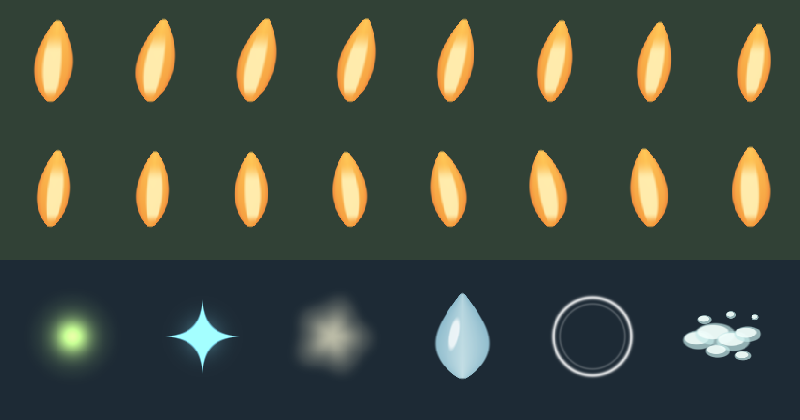
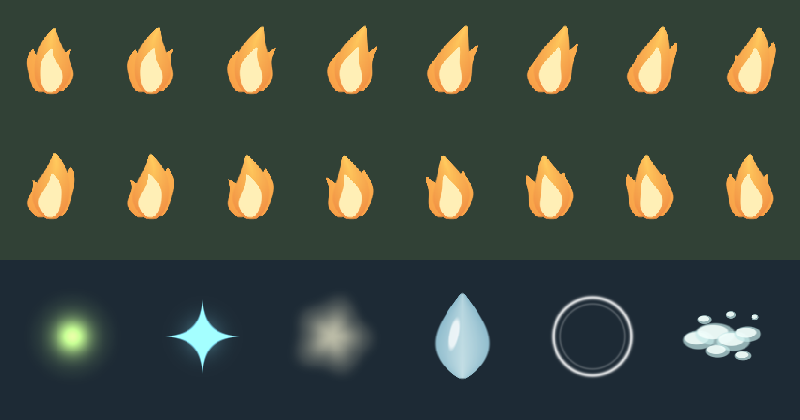
VIS.5: Refine flame silhouettes and document VFX mobile integration

diff --git a/ArtSource/VFX/BrightFantasy_VIS5/README.md b/ArtSource/VFX/BrightFantasy_VIS5/README.md
@@ -1,0 +1,20 @@
+# VIS.5 VFX source handoff — Emberling / Origin
+
+Seven RGBA8 sRGB source PNGs, no runtime import. One 512² 4×4 flame sheet (16 frames of 128²), four 128² textures (firefly, magic spark, dust, water drop), two 256² textures (pond ring, foam). Total uncompressed level-0 RGBA32 1.75 MiB (before compression); theoretical ASTC 4×4 0.4375 MiB, not measured. The flame has three tongues, warm core and stable lower anchor. Static preview of all frames, not an animation render. Source atlas row-major, top-left first. The baked mesh flame in Emberling must remain; test a small overlay only if it enhances rather than duplicates silhouette. Use existing flameBone / TailVFX_Anchor after technical AI #95 confirms actual anchor; do not modify rig, emitter or light here. No added dynamic lights.
+
+## Technical references consulted
+- Unity 6 WholeSheet ordering: https://docs.unity3d.com/6000.0/Documentation/ScriptReference/ParticleSystemAnimationType.WholeSheet.html
+- Unity 6 texture sheet animation: https://docs.unity3d.com/6000.0/Documentation/ScriptReference/ParticleSystem-textureSheetAnimation.html
+- URP Particles Unlit inspector: https://docs.unity3d.com/6000.0/Documentation/Manual/urp/particles-unlit-shader.html
+- Existing EnvironmentAmbientParticles.cs, LivingEnvironmentBuilder.cs, EmberlingFlameVisual.cs at 4b3d598.
+
+## Integration candidate (NOT applied)
+- Flame: URP Particles/Unlit, alpha blend, grid 4x4, Whole Sheet, suggested 16–24 frames/sec (0.67–1s/cycle), verify ordering, loop and stable foot. Start with one small card, test camera overlap. Do not increase existing tail light intensity or change animation. Disable optional effect if the existing flame mesh reads better.
+- Firefly / magic spark / dust: neutral RGB white; existing particle tint supplies color. Additive; avoid a second large halo, and check bright daytime backgrounds.
+- Water drop / foam: alpha blend; don't globally replace M_ENV_FX_Alpha because burstFall is shared by Splash and DustPuff. burstRise likewise handles petals, rune, heat, fireflies, bubbles and clouds. Keep old generic material unless explicit per-style routing is approved; don't create additional emitters just for decoration without profiling.
+- Pond ring: neutral white alpha, use existing HorizontalBillboard, size-over-life, color and pond volume. Preserve day/night weighting and water interaction.
+- Preserve existing ambient caps (36+14 fireflies, 48 dust, 8 rings; quality scale .65/.35, actual builder reads volume counts). Existing burst systems each have cap 64, individual bursts max16. No automatic new particle budgets or shader passes. No claim that new textures reduce overdraw.
+- Texture import on QA branch: clamp/bilinear, sRGB, alpha transparency, non-readable; start with no mipmaps on flipbook to avoid cross-cell bleed; check aliasing, test ASTC 4×4 first and fallback/device support. For world effects, evaluate mips separately if needed. Preserve per-frame gutters; no tight pack/rotation. No frame blending until measured. Check alpha sorting, nighttime brightness, daytime legibility, mobile GPU overdraw, Frame Debugger batches and actual texture memory.
+
+## QA
+Generation checked finite pixels, independent PNG decode roundtrip, non-empty alpha for each cell, transparent gutters (flame minimum 15px). Source swatch inspected and flame silhouette revised. No Blender/Unity, external PNG decoder, rendered animation, compression, GPU or device QA. These are procedural candidates, not approved final art. Existing source art and runtime untouched. #91 handles environment integration, #95 character anchor/rig ownership.
